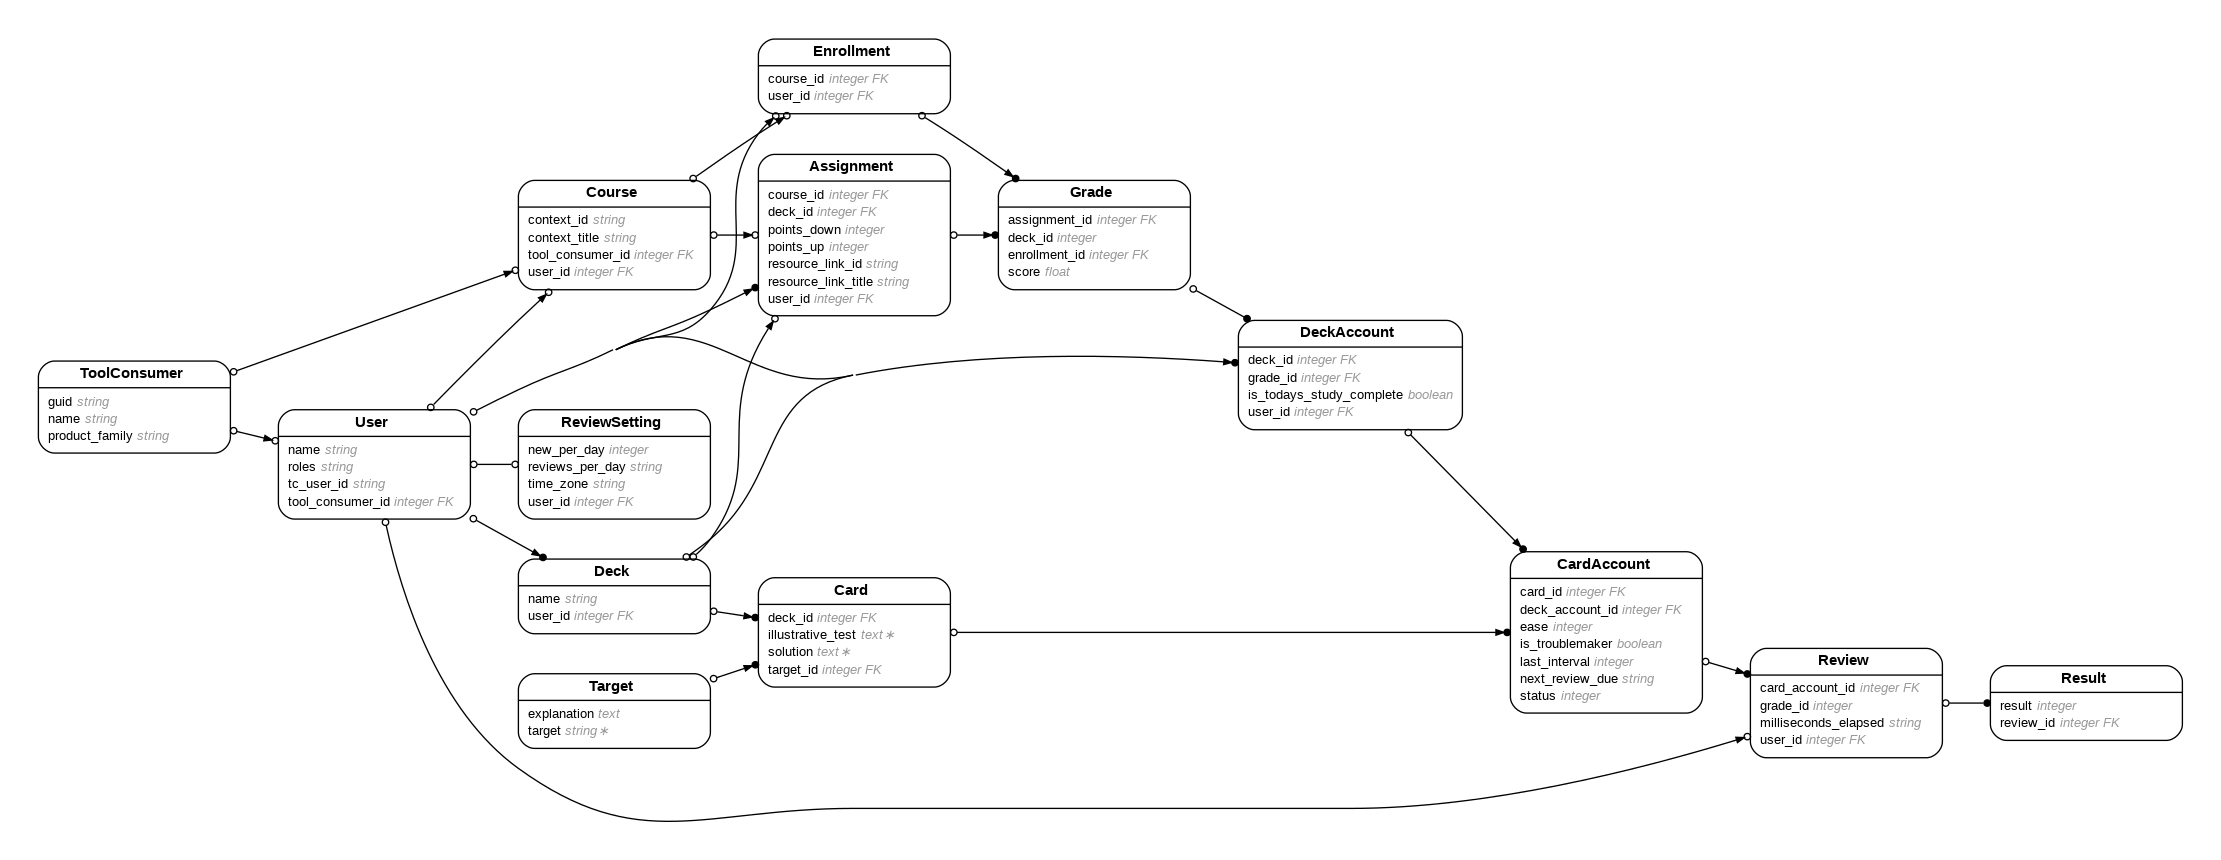
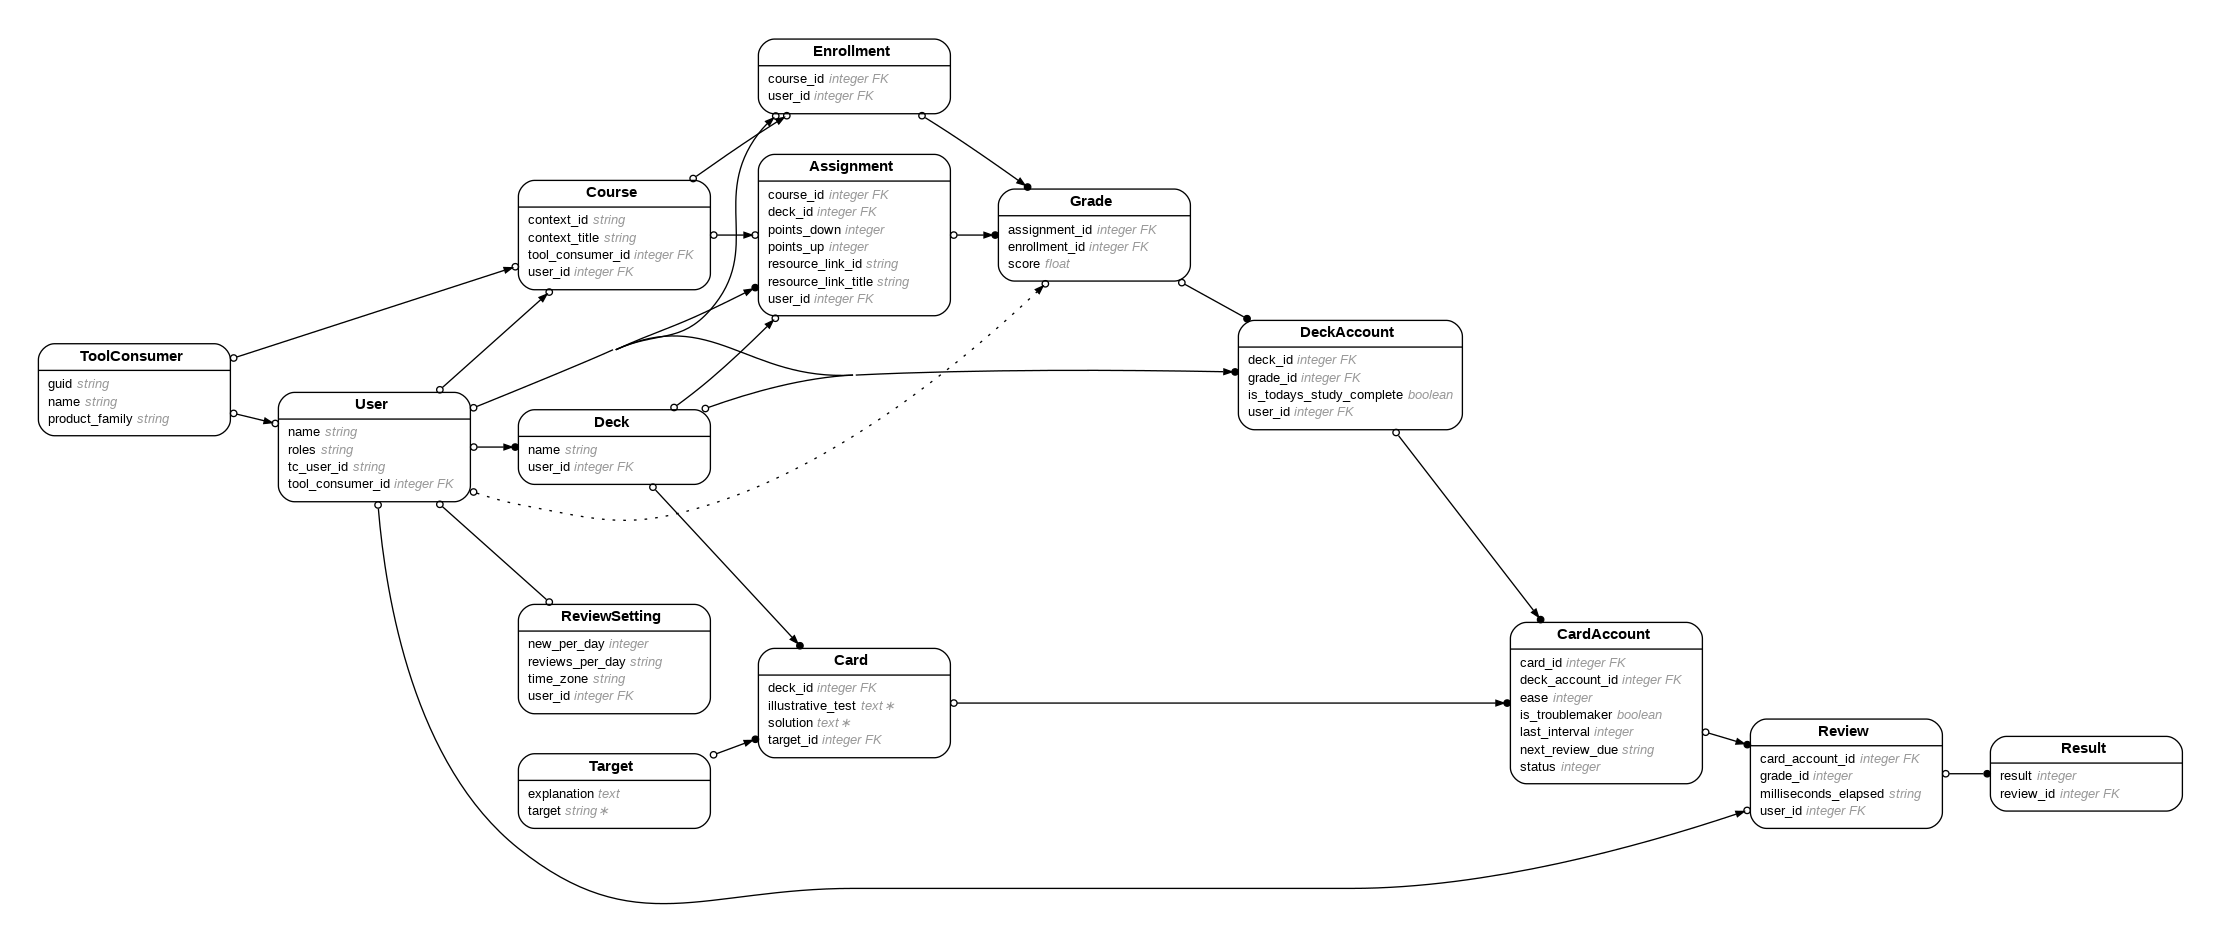
got the card account to update due date and interval based on the user response. LETS GO

diff --git a/app/controllers/reviews_controller.rb b/app/controllers/reviews_controller.rb
@@ -28,8 +28,8 @@ class ReviewsController < ApplicationController
         # create a result for the review that logs the response of the learner
         @result = @review.create_result(result: params[:result].downcase)
         # update the card account with the new interval and advance the next review due by the interval
-        @result.card_account.udpate(last_interval: params[:review][:interval], next_review_due: @result.card_account.next_review_due.advance(days: params[:review][:interval]))
-        format.html { redirect_to @review, notice: "Review was successfully created." }
+        @review.card_account.update(last_interval: params[:review][:interval], next_review_due: @review.card_account.next_review_due.to_date.advance(days: params[:review][:interval].to_i))
+        format.html { redirect_to course_assignment_path(current_course, current_assignment), notice: "Review was successfully created." }
         format.json { render :show, status: :created, location: @review }
         format.js
       else

diff --git a/db/schema.rb b/db/schema.rb
@@ -81,7 +81,6 @@ ActiveRecord::Schema.define(version: 2021_08_24_172532) do
   end
 
   create_table "grades", force: :cascade do |t|
-    t.integer "deck_id"
     t.float "score"
     t.integer "enrollment_id"
     t.integer "assignment_id"
